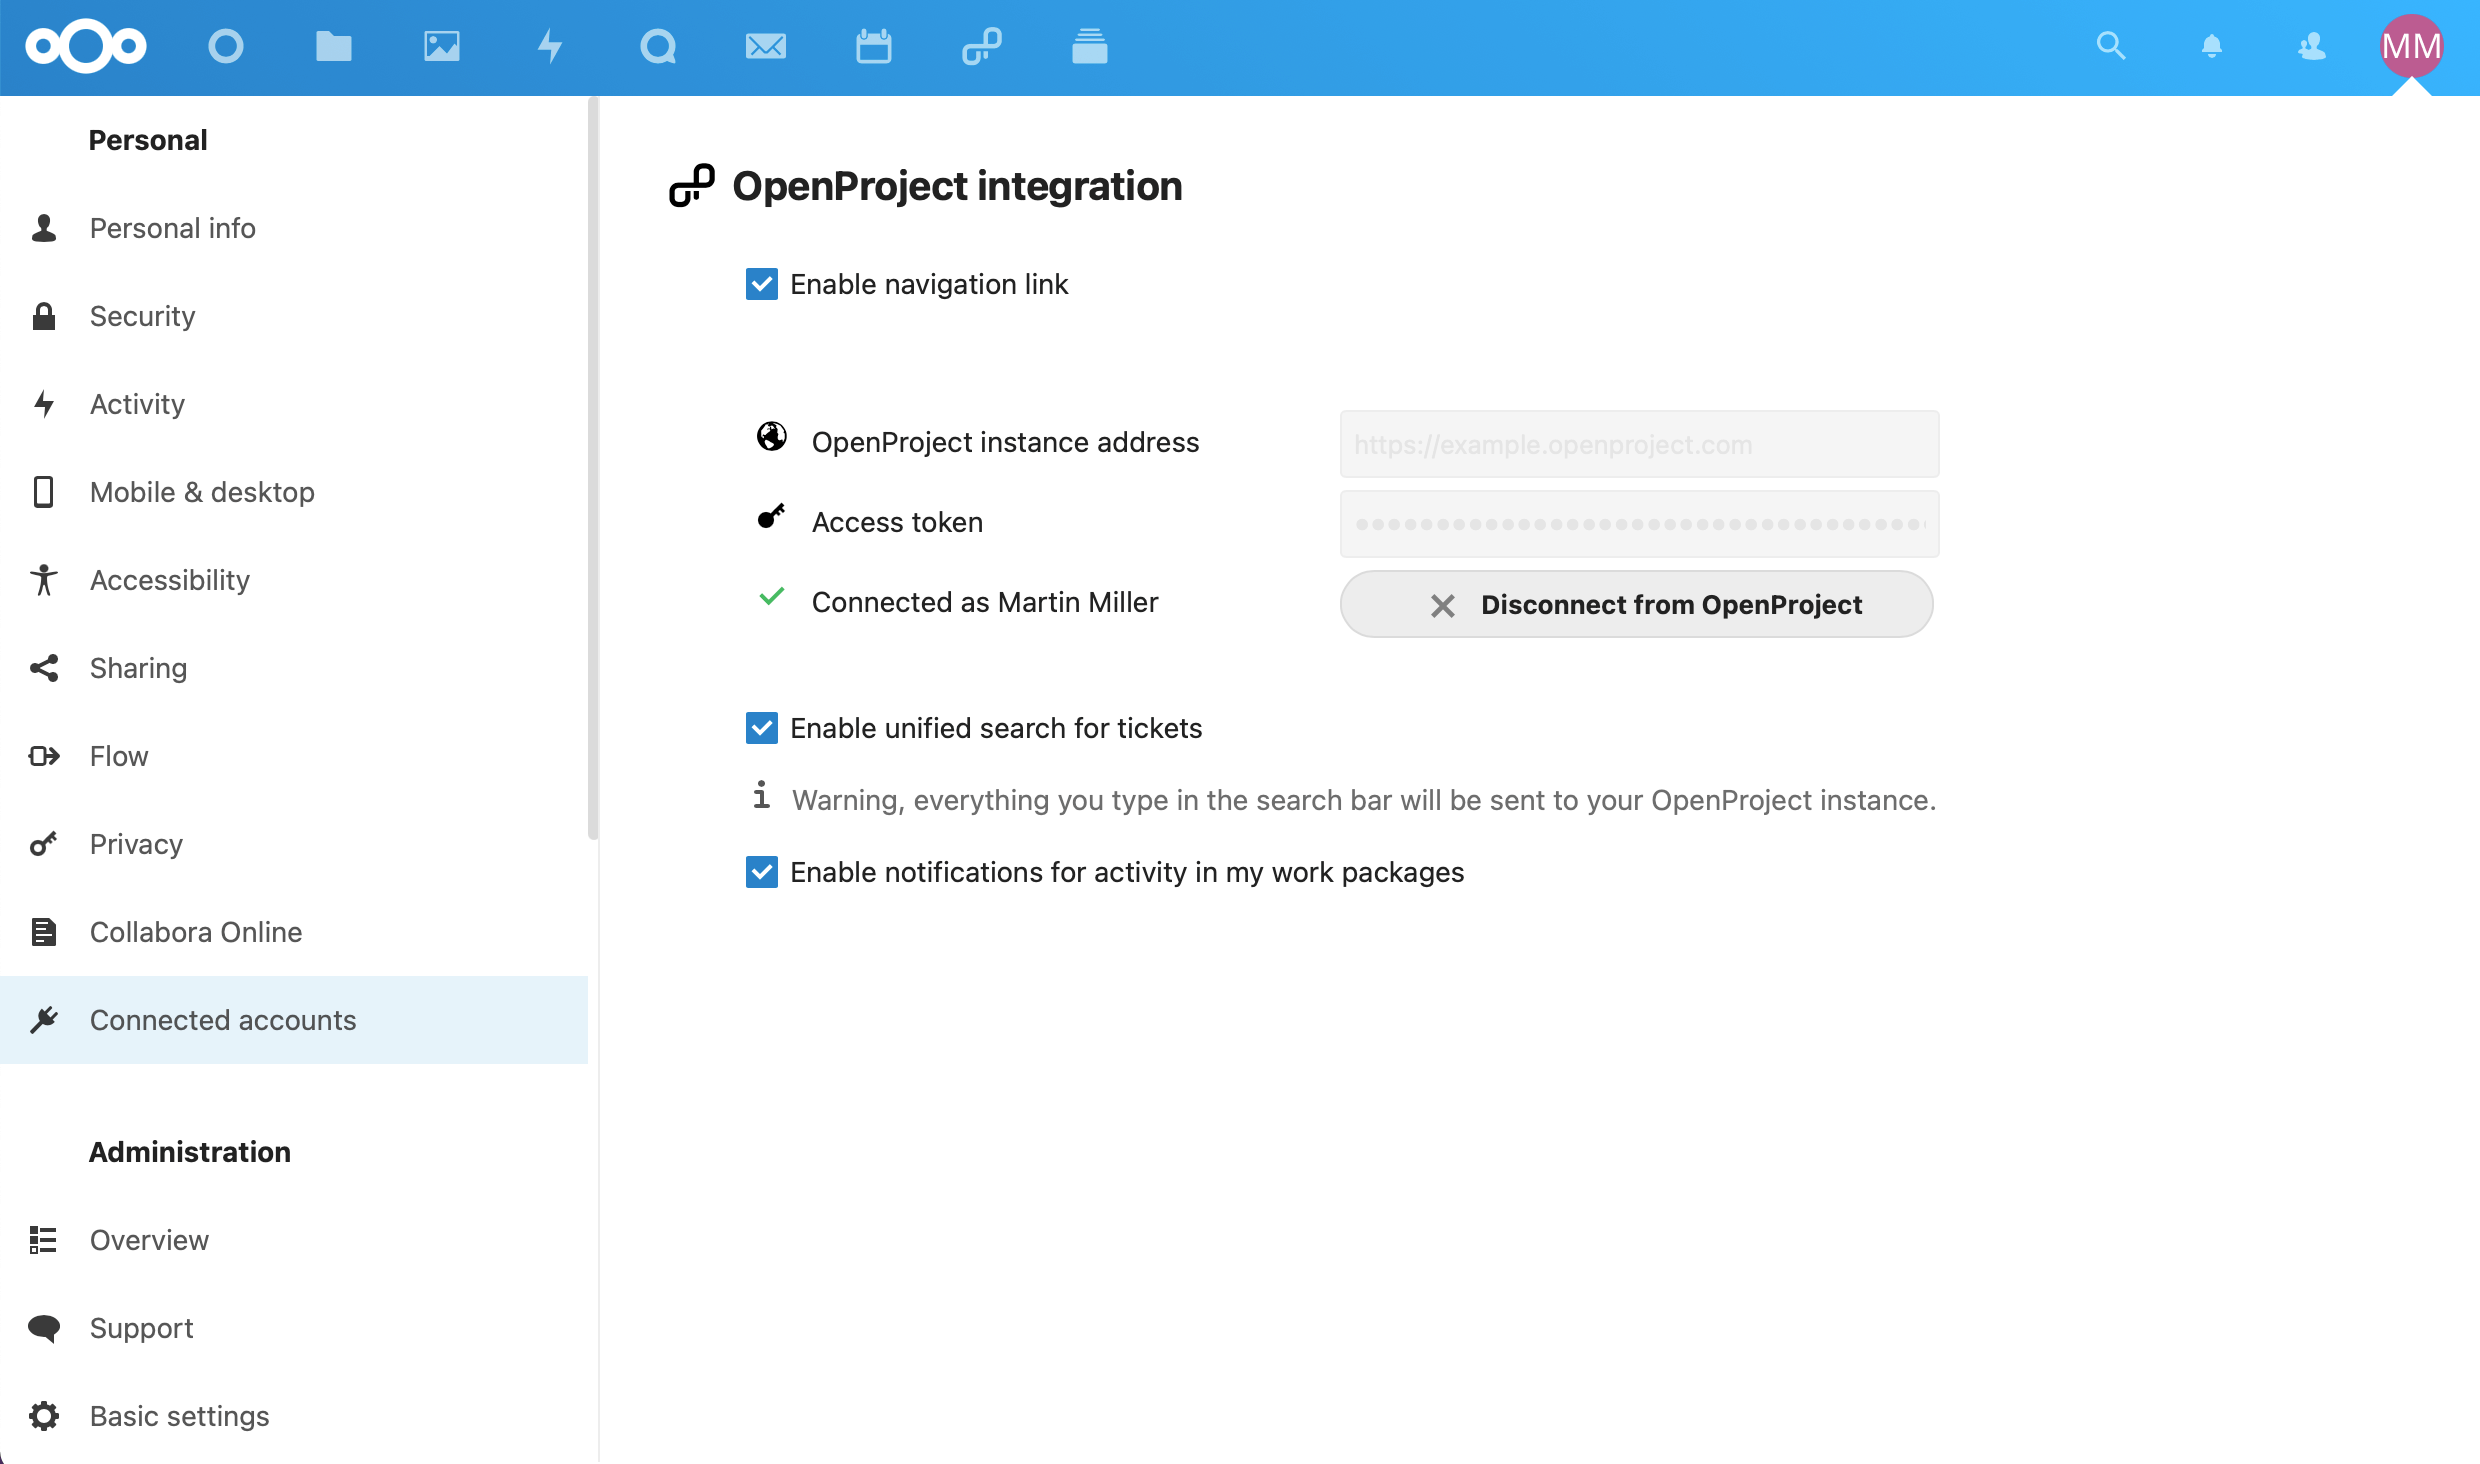
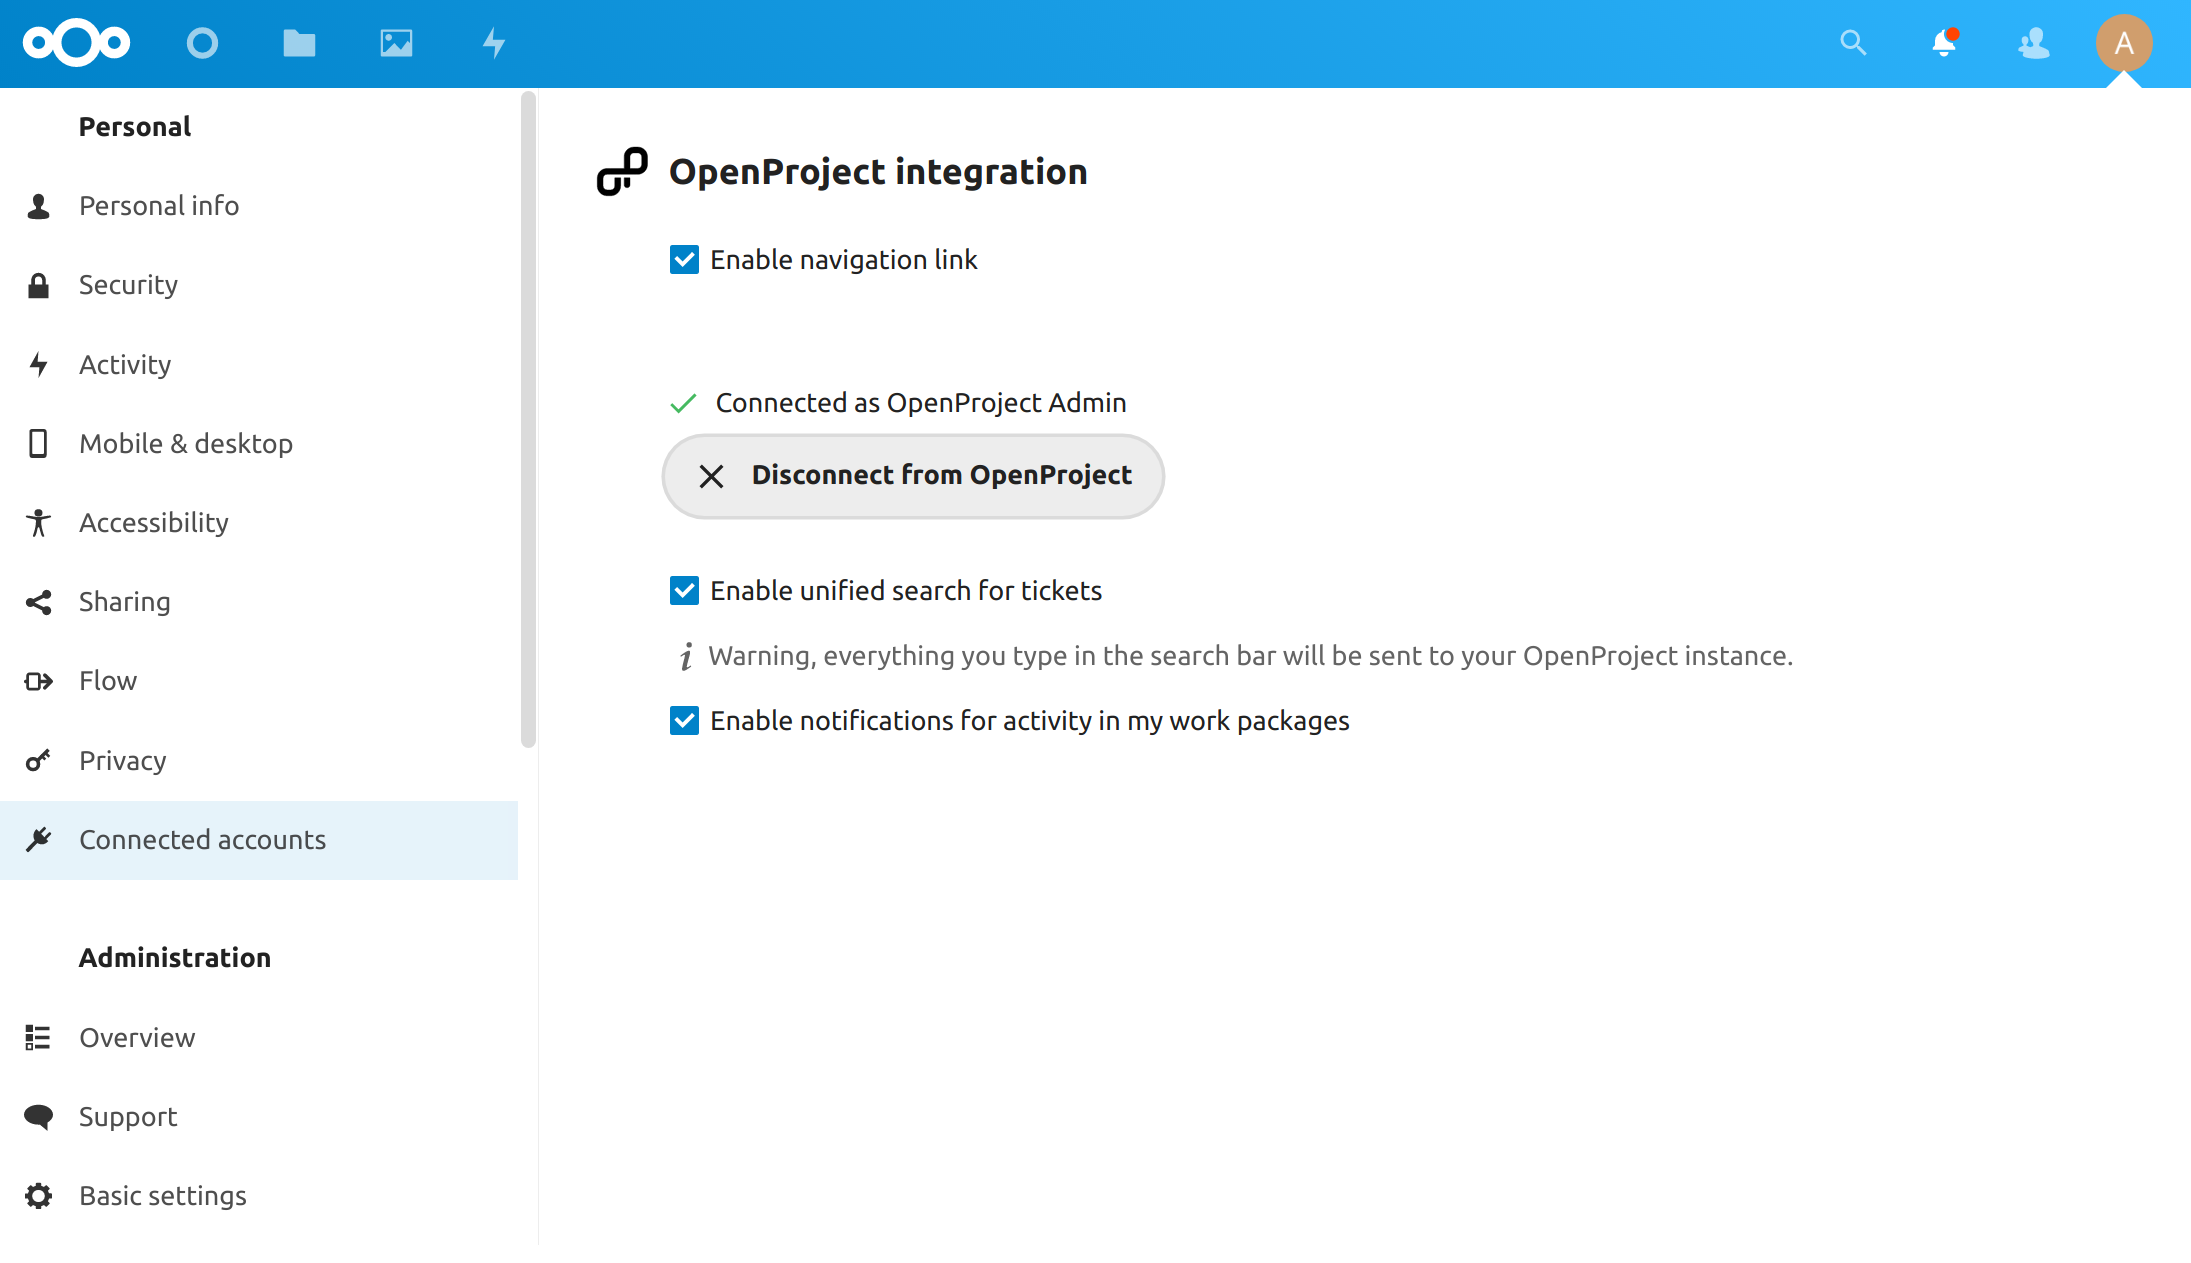
[#41752] Documentation updated (docs.openproject.com)
- Link to the Nextcloud integeration guide from the user guide root.
- Improve instruction for creating file links.
- Update screenshot for "Connected accounts".

https://community.openproject.org/work_packages/41752

diff --git a/docs/user-guide/README.md b/docs/user-guide/README.md
@@ -30,24 +30,25 @@ A module in OpenProject encapsulates a specific set of collaboration functionali
 
 Please choose the module or topic you want to learn more about.
 
-| Topic                                                        | Content                                                      |
-| ------------------------------------------------------------ | :----------------------------------------------------------- |
-| [Project overview page](project-overview)                    | How to create a project overview dashboard with important project information? |
-| [Activity](activity)                                         | How to find out about the latest activities in a project?    |
-| [Backlogs (Scrum)](backlogs-scrum)                           | How to manage a Scrum team in OpenProject with a product backlog and taskboard? |
-| [Boards](agile-boards)                                       | How to work with Agile boards for agile project management, e.g. Kanban? |
-| [Budgets](budgets)                                           | How to create and manage a project budget?                   |
-| [Calendar](calendar)                                         | How to display your work in a calendar in OpenProject?       |
-| [Documents](documents)                                       | How to upload and share documents in OpenProject?            |
-| [Forums](forums)                                             | How to manage forums to discuss and comment on topics?       |
-| [GitHub](../system-admin-guide/integrations/github-integration/) | How to manage GitHub integration?                            |
-| [Meetings](meetings)                                         | How to manage meetings to create and share meeting agenda and meeting minutes? |
-| [News](news)                                                 | How to create and manage News for your projects?             |
-| [Team planner](team-planner)                                 | How to use the team planner module?                          |
-| [Time and costs](time-and-costs)                             | How to track time and costs in OpenProject and report spent time and costs? |
-| [Roadmap](roadmap)                                           | How to create a product roadmap with OpenProject?            |
-| [Wiki](wiki)                                                 | How to create and manage a wiki to collaboratively document and share information? |
-| [Work packages](work-packages)                               | How to manage your work in a project?                        |
-| [Gantt chart](gantt-chart)                                   | How to create and manage a project plan in a Gantt chart?    |
-| [Members](members/)                                          | How to manage Members in a project?                          |
-| [Manage projects](projects)                                  | Edit, create, copy, delete projects and change project settings. |
+| Topic                                                            | Content                                                                            |
+|------------------------------------------------------------------|:-----------------------------------------------------------------------------------|
+| [Project overview page](project-overview)                        | How to create a project overview dashboard with important project information?     |
+| [Activity](activity)                                             | How to find out about the latest activities in a project?                          |
+| [Backlogs (Scrum)](backlogs-scrum)                               | How to manage a Scrum team in OpenProject with a product backlog and taskboard?    |
+| [Boards](agile-boards)                                           | How to work with Agile boards for agile project management, e.g. Kanban?           |
+| [Budgets](budgets)                                               | How to create and manage a project budget?                                         |
+| [Calendar](calendar)                                             | How to display your work in a calendar in OpenProject?                             |
+| [Documents](documents)                                           | How to upload and share documents in OpenProject?                                  |
+| [Forums](forums)                                                 | How to manage forums to discuss and comment on topics?                             |
+| [GitHub](../system-admin-guide/integrations/github-integration/) | How to manage GitHub integration?                                                  |
+| [Meetings](meetings)                                             | How to manage meetings to create and share meeting agenda and meeting minutes?     |
+| [News](news)                                                     | How to create and manage News for your projects?                                   |
+| [Nextcloud integration](nextcloud-integration)                   | How to integrate OpenProject with Nextcloud?                                       |
+| [Team planner](team-planner)                                     | How to use the team planner module?                                                |
+| [Time and costs](time-and-costs)                                 | How to track time and costs in OpenProject and report spent time and costs?        |
+| [Roadmap](roadmap)                                               | How to create a product roadmap with OpenProject?                                  |
+| [Wiki](wiki)                                                     | How to create and manage a wiki to collaboratively document and share information? |
+| [Work packages](work-packages)                                   | How to manage your work in a project?                                              |
+| [Gantt chart](gantt-chart)                                       | How to create and manage a project plan in a Gantt chart?                          |
+| [Members](members/)                                              | How to manage Members in a project?                                                |
+| [Manage projects](projects)                                      | Edit, create, copy, delete projects and change project settings.                   |

diff --git a/docs/user-guide/nextcloud-integration/README.md b/docs/user-guide/nextcloud-integration/README.md
@@ -30,7 +30,7 @@ The integration enables you to perform multiple actions in both Nextcloud and Op
 As a user of both Nextcloud and OpenProject, you can benefit from this integration in both platforms:
 
 - **In OpenProject:**
-  In addition to listing files attached to a work package, the Files tab now also shows you Nextcloud files that are linked to the current work package. Secondary actions on each file allow you to directly **open or download the file, show the containing folder in Nextcloud or remove the link**.
+  In addition to listing files attached to a work package, the _Files_ tab now also shows you Nextcloud files that are linked to the current work package. Secondary actions on each file allow you to directly **open or download the file, show the containing folder in Nextcloud or remove the link**.
   ![Empty_status_files](1_0_00-No_files_linked.png)
 
   ![OP_linked_files](1_1_00-All_files_available.png)
@@ -39,7 +39,11 @@ As a user of both Nextcloud and OpenProject, you can benefit from this integrati
   
 
 - **In Nextcloud:**
-  You will be able to access the OpenProject tab in Nextcloud by accessing the details split screen of any file. In this tab, you will be able to search for the work package to which you would like to add a link. Once a work package is linked to a file, you can always unlink it by clicking on the **unlink** icon.
+  On the file or folder that you want to link to a work package click on the three dots and then click on _Details_.
+  
+  ![NC_open_file_details](Nextcloud_open_file_details.png)
+  
+  In the _Details_ open the _OpenProject_ tab. There you will be able to search for the work package and link it. Once a work package is linked to a file, you can always unlink it by clicking on the **unlink** icon.
 
   ![NC_search_WP](0_0_00-File_Relation_Search.png)
 
